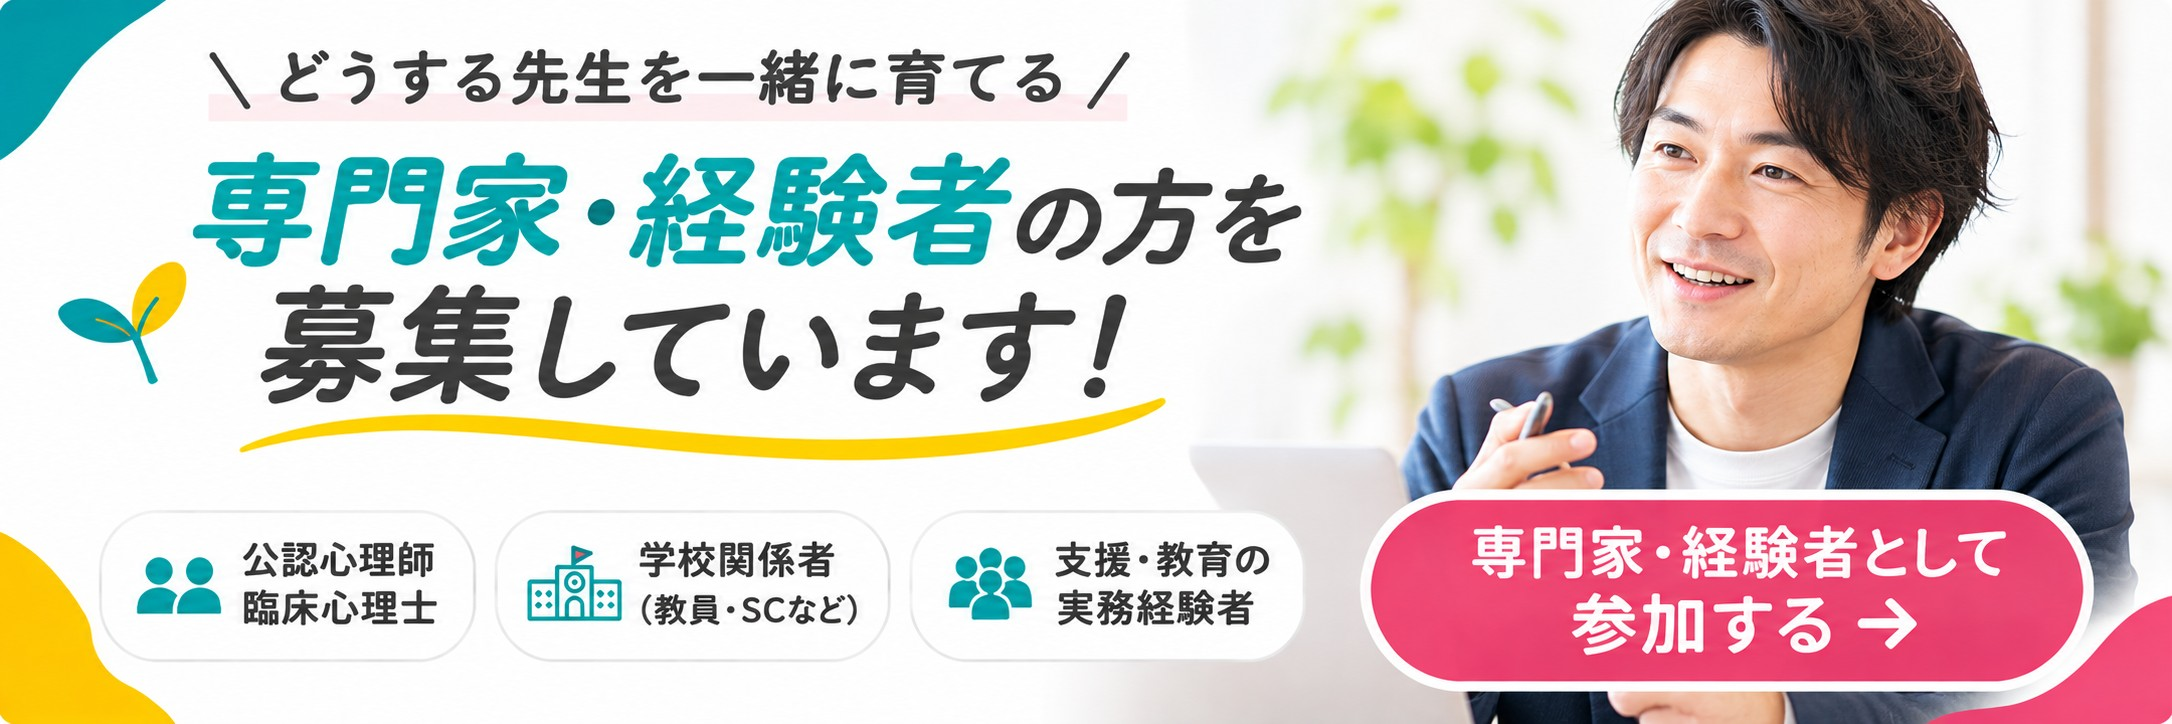
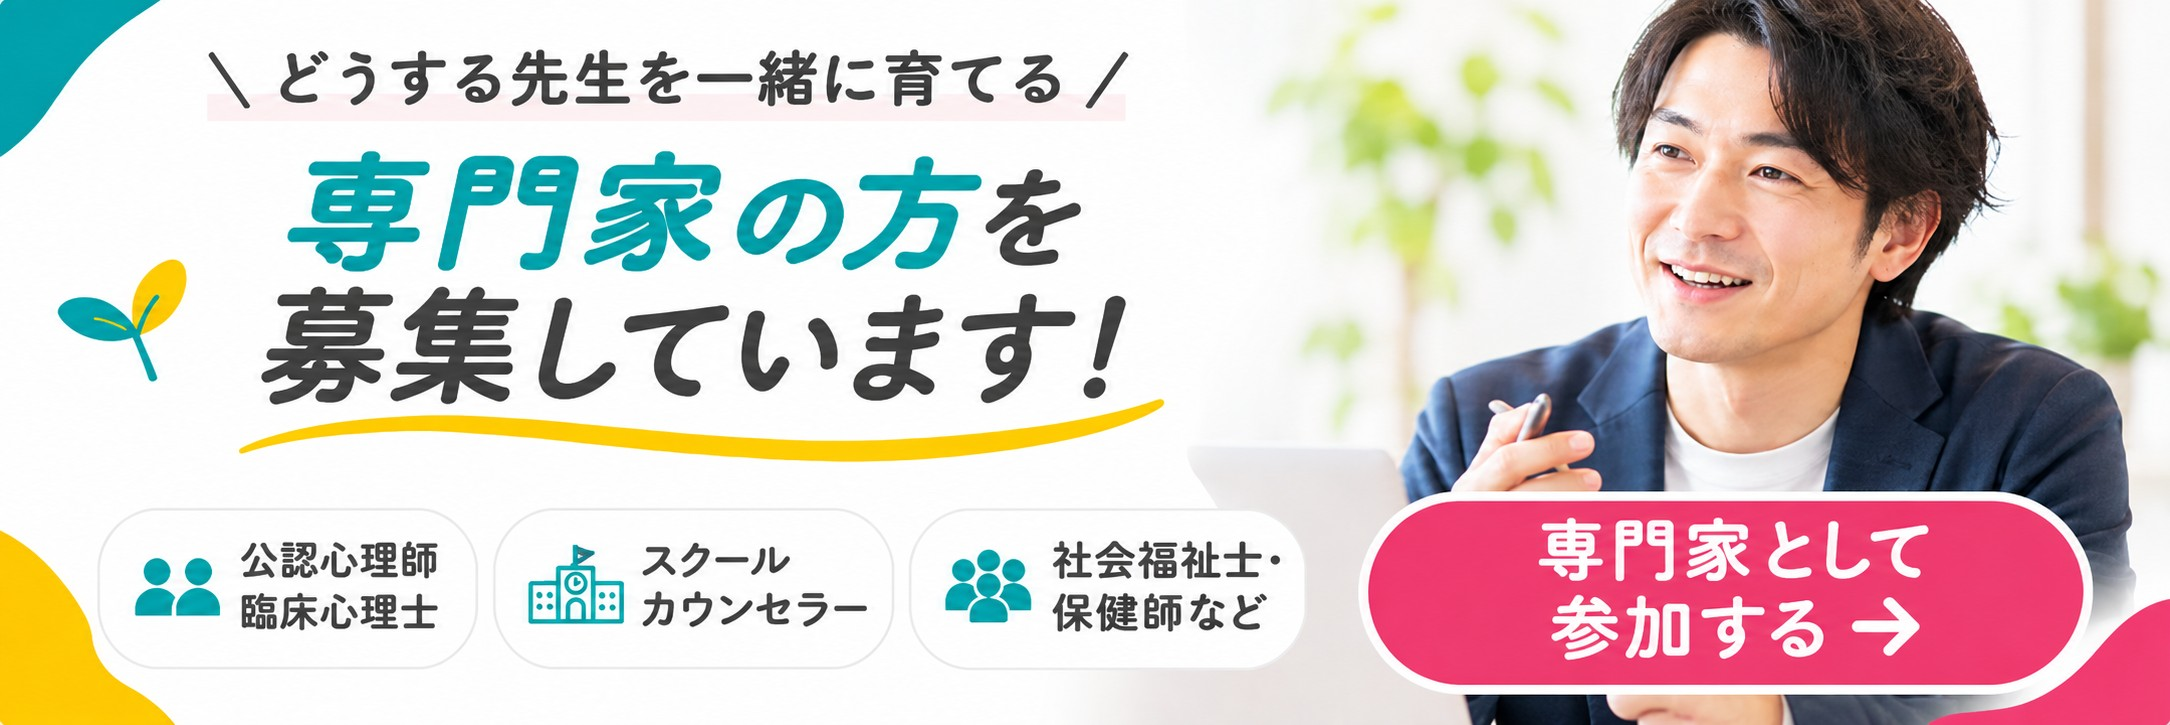
PC版専門家専用バナーを専門家のみの内容に差し替え
「専門家・経験者」と両方に向けた文言ながらリンク先は専門家専用ページ
（/expert/recruit）という不一致があったため、画像を専門家のみの訴求に
作り直してもらい差し替え。資格の例も実際の登録フォームの選択肢
（学校関係者→スクールカウンセラー、支援・教育の実務経験者→社会福祉士・
保健師など）に合わせた。alt文言も画像内容に合わせて更新。

Claude-Session: https://claude.ai/code/session_01GrtDLyKXBNwgBHS59qu18P

diff --git a/app/HomeClient.tsx b/app/HomeClient.tsx
@@ -94,7 +94,9 @@ const PC_HERO_SLIDES: HeroSlide[] = [
     id: 'pc-expert',
     href: '/expert/recruit',
     src: '/assets/home_hero_pc_expert.jpg',
-    alt: 'どうする先生を一緒に育てる。専門家・経験者の方を募集しています！公認心理師・臨床心理士、学校関係者（教員・SCなど）、支援・教育の実務経験者。専門家・経験者として参加する。',
+    // 2026-11-03、画像を専門家専用の内容（経験者の文言を除き、資格の例をフォームの
+    // 実際の選択肢に合わせたもの）に差し替えたのに合わせて、alt文言も変更。
+    alt: 'どうする先生を一緒に育てる。専門家の方を募集しています！公認心理師・臨床心理士、スクールカウンセラー、社会福祉士・保健師など。専門家として参加する。',
   },
   {
     id: 'pc-gakko',
